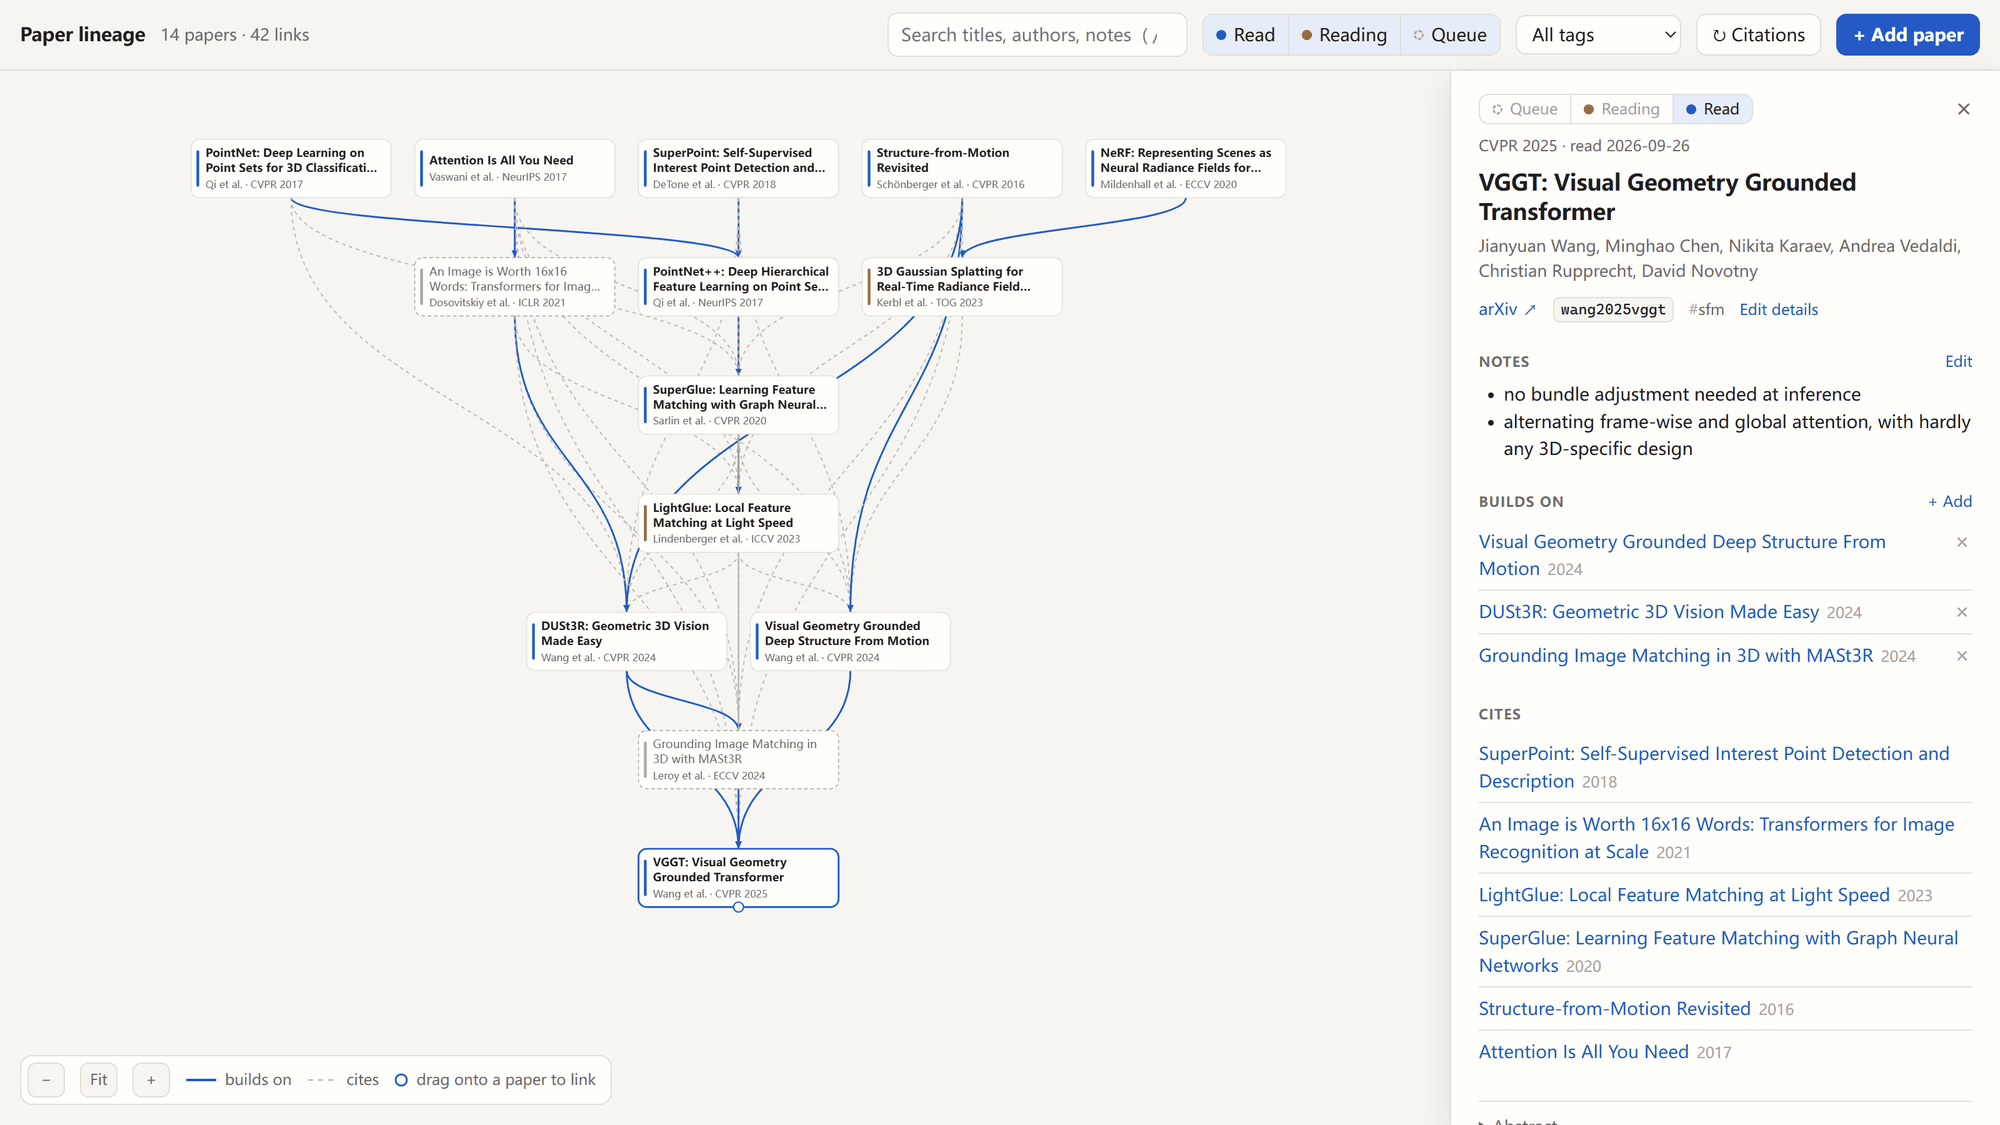
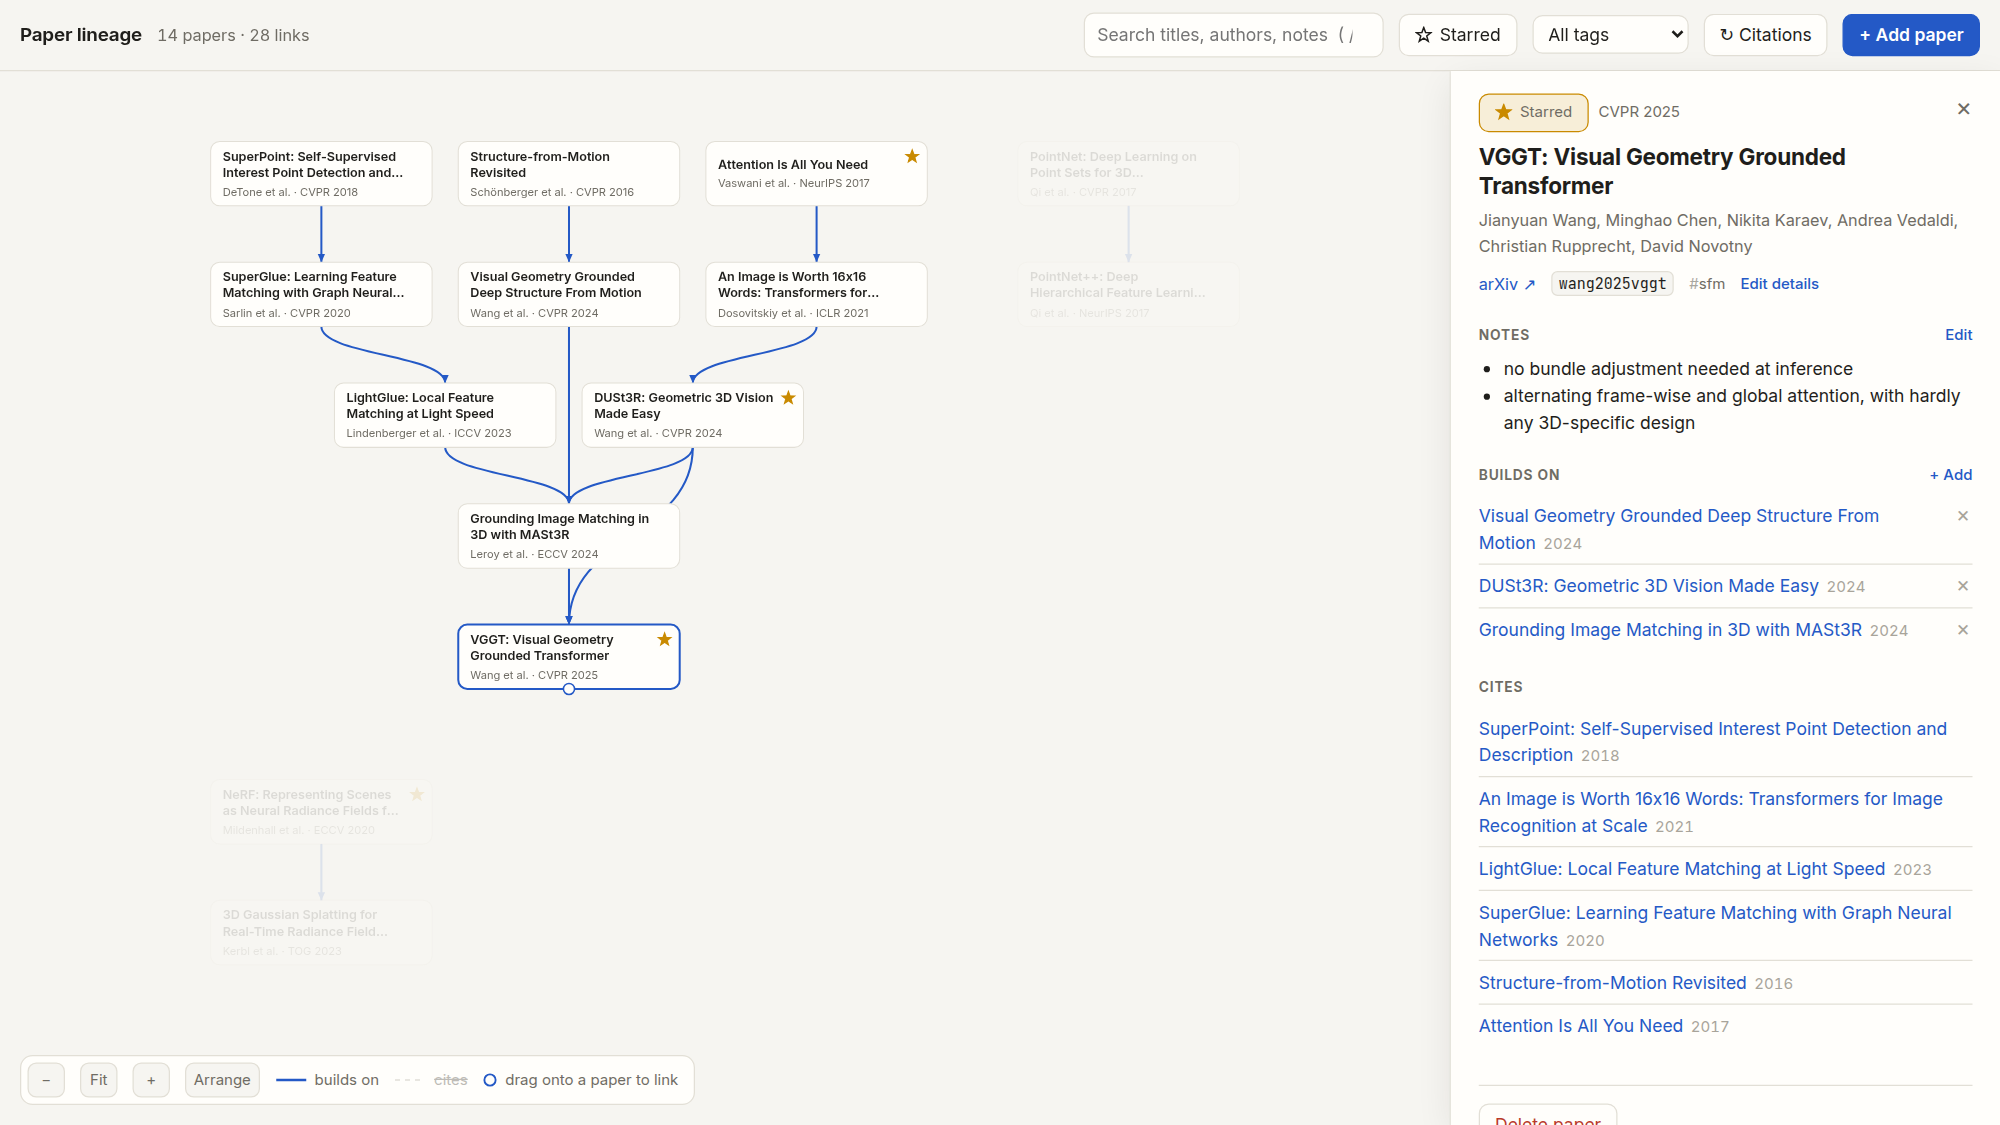
Fresh screenshots, pip install, Claude Code plugin
- Screenshots show stars instead of read/queue; the old terminal command
  no longer ran (`-s read`).
- pyproject.toml: `uv tool install` / `pipx install` from git, and a
  release workflow that publishes to PyPI with trusted publishing.
- .claude-plugin/: the repo is a plugin marketplace, so Claude Code
  installs the skill with /plugin install pp@pp-papers.
- GitHub counts pp as Python; README says why not Zotero.

Claude-Session: https://claude.ai/code/session_0121YLYvqboTNeXyD6SgxPd4

diff --git a/README.md b/README.md
@@ -6,9 +6,11 @@ A paper library in plain text.
 - **Unix.** Small commands that print plain text and compose with pipes. One Python file, no dependencies, no database, no account.
 - **Made for agents.** The files and the commands are the whole interface, so Claude Code or any agent with a shell can keep the library for you.
 
+Why not Zotero? Zotero keeps your library in a database behind an app. pp keeps it in plain files that you, `grep`, `git` and your agent can all read and write.
+
 <picture>
-  <source media="(prefers-color-scheme: dark)" srcset=".github/lineage-dark.png">
-  <img alt="The lineage page: papers laid out as generations of ideas, with VGGT selected and its notes open" src=".github/lineage-light.png">
+  <source media="(prefers-color-scheme: dark)" srcset="https://raw.githubusercontent.com/LarryLiZimo/pp-papers/main/.github/lineage-dark.png">
+  <img alt="The lineage page: papers laid out as generations of ideas, with VGGT selected and its notes open" src="https://raw.githubusercontent.com/LarryLiZimo/pp-papers/main/.github/lineage-light.png">
 </picture>
 
 ## Features
@@ -24,11 +26,26 @@ A paper library in plain text.
 Needs Python 3.9 or newer.
 
 ```sh
+uv tool install git+https://github.com/LarryLiZimo/pp-papers    # or: pipx install git+https://...
+```
+
+For Claude Code, add the skill as a plugin:
+
+```text
+/plugin marketplace add LarryLiZimo/pp-papers
+/plugin install pp@pp-papers
+```
+
+Papers go to `~/papers`; set `PP_DIR` to use another folder.
+
+Or run it from a clone, with nothing to install:
+
+```sh
 git clone https://github.com/LarryLiZimo/pp-papers ~/.local/share/pp-papers
 ln -s ~/.local/share/pp-papers/pp ~/.local/bin/pp
 ```
 
-On Windows, clone anywhere and add the folder to `PATH`. Papers go to `~/papers`; set `PP_DIR` to use another folder. For Claude Code, copy `SKILL.md` to `~/.claude/skills/pp/`.
+On Windows, clone anywhere and add the folder to `PATH`. For Claude Code without the plugin, copy `SKILL.md` to `~/.claude/skills/pp/`.
 
 Or paste this into your agent:
 
@@ -42,8 +59,9 @@ Install pp (https://github.com/LarryLiZimo/pp-papers), a plain-text paper librar
    make sure that folder is on PATH; on Windows, add the clone folder to my user PATH.
 4. Ask me where my library should live. ~/papers is the default; for any other folder, set
    PP_DIR persistently.
-5. If you are Claude Code, copy <clone>/SKILL.md to ~/.claude/skills/pp/SKILL.md. Other agents:
-   add its rules to your persistent instructions.
+5. If you are Claude Code, install the skill as a plugin: claude plugin marketplace add
+   LarryLiZimo/pp-papers, then claude plugin install pp@pp-papers. Other agents: add the rules in
+   <clone>/SKILL.md to your persistent instructions.
 6. Verify: python test.py in the clone, then pp --version (by full path if your shell does not
    see the new PATH yet).
 
@@ -53,7 +71,7 @@ short summary of what you changed.
 
 ## Usage
 
-![Adding VGGT, linking it to earlier papers, listing and exporting BibTeX in a terminal](.github/terminal.png)
+![Adding VGGT, linking it to earlier papers, listing and exporting BibTeX in a terminal](https://raw.githubusercontent.com/LarryLiZimo/pp-papers/main/.github/terminal.png)
 
 | Command | Does |
 |---|---|

diff --git a/SKILL.md b/SKILL.md
@@ -5,7 +5,7 @@ description: Keep the user's paper library with the `pp` CLI (plain text, one Ma
 
 # Paper library (`pp`)
 
-Every paper is `$PP_DIR/<key>.md` (default `~/papers`): YAML front matter (metadata, links) plus Markdown (`## Notes`, `## Abstract`). `pp -h` lists everything.
+Every paper is `$PP_DIR/<key>.md` (default `~/papers`): YAML front matter (metadata, links) plus Markdown (`## Notes`, `## Abstract`). `pp -h` lists everything. If `pp` is not on PATH and this skill came with the Claude Code plugin, run `"${CLAUDE_PLUGIN_ROOT}/pp"` in its place.
 
 | Command | Does |
 |---|---|
